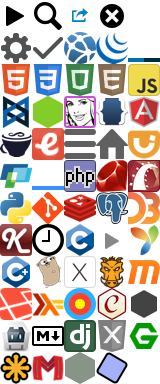
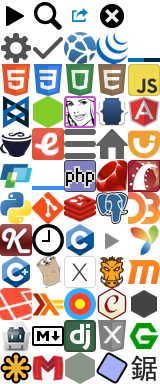
Add Nokogiri documentation
Closes #123.

Changed region(s): [[0.8125, 0.9062, 1.0, 1.0]]

diff --git a/assets/stylesheets/global/_icons.scss b/assets/stylesheets/global/_icons.scss
@@ -71,3 +71,4 @@
 ._icon-marionette:before    { background-position: -1rem -11rem; }
 ._icon-mongoose:before      { background-position: -2rem -11rem; }
 ._icon-phpunit:before       { background-position: -3rem -11rem; }
+._icon-nokogiri:before      { background-position: -4rem -11rem; }

diff --git a/lib/docs/scrapers/nokogiri2.rb b/lib/docs/scrapers/nokogiri2.rb
@@ -1,0 +1,19 @@
+module Docs
+  class Nokogiri2 < Rdoc
+    self.name = 'Nokogiri'
+    self.slug = 'nokogiri'
+    self.version = '1.6.4'
+    self.dir = '/Users/Thibaut/DevDocs/Docs/RDoc/Nokogiri'
+
+    html_filters.replace 'rdoc/entries', 'nokogiri2/entries'
+
+    options[:root_title] = 'Nokogiri'
+    options[:only_patterns] = [/\ANokogiri/]
+
+    options[:attribution] = <<-HTML
+      &copy; 2008&ndash;2014 Aaron Patterson, Mike Dalessio, Charles Nutter,<br>
+      Sergio Arbeo, Patrick Mahoney, Yoko Harada, Akinori Musha<br>
+      Licensed under the MIT License.
+    HTML
+  end
+end

diff --git a/lib/docs/filters/nokogiri2/entries.rb b/lib/docs/filters/nokogiri2/entries.rb
@@ -1,0 +1,11 @@
+module Docs
+  class Nokogiri2
+    class EntriesFilter < Docs::Rdoc::EntriesFilter
+      def get_type
+        type = name.dup
+        type.remove! %r{#.+\z}
+        type.split('::')[0..2].join('::')
+      end
+    end
+  end
+end
